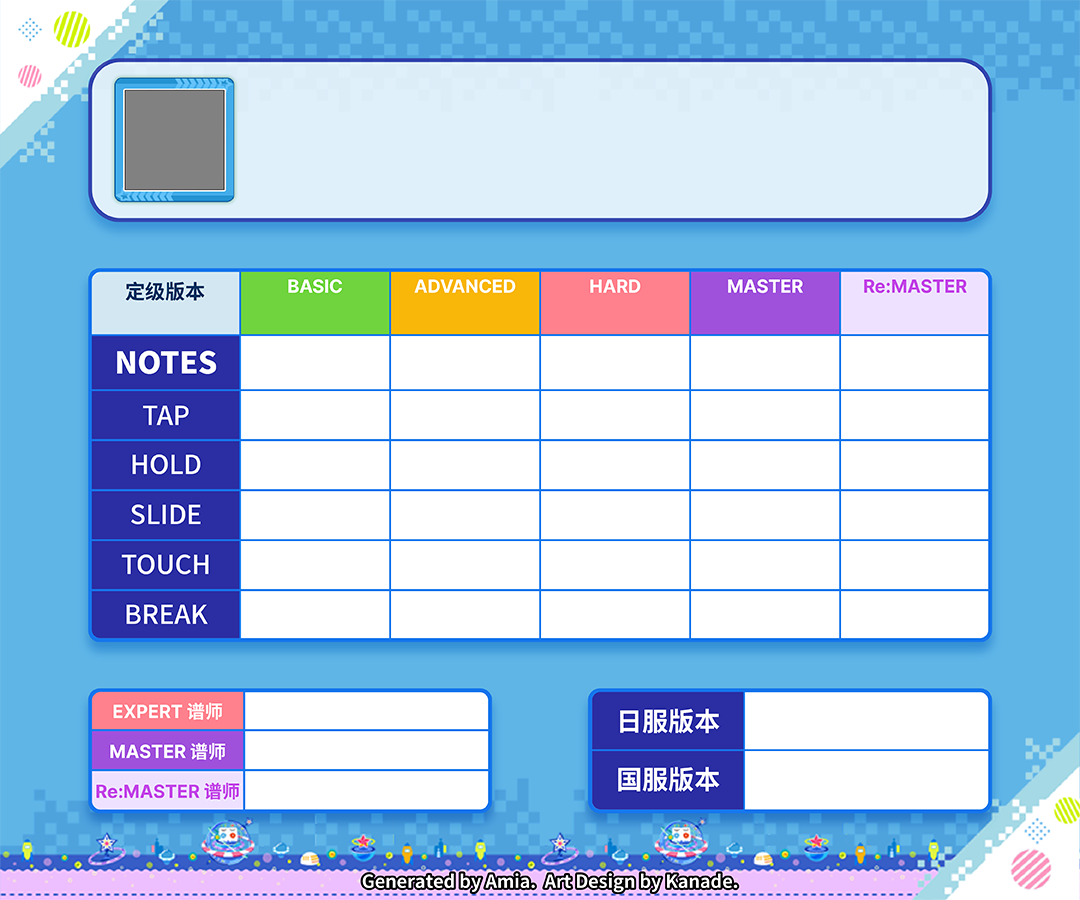
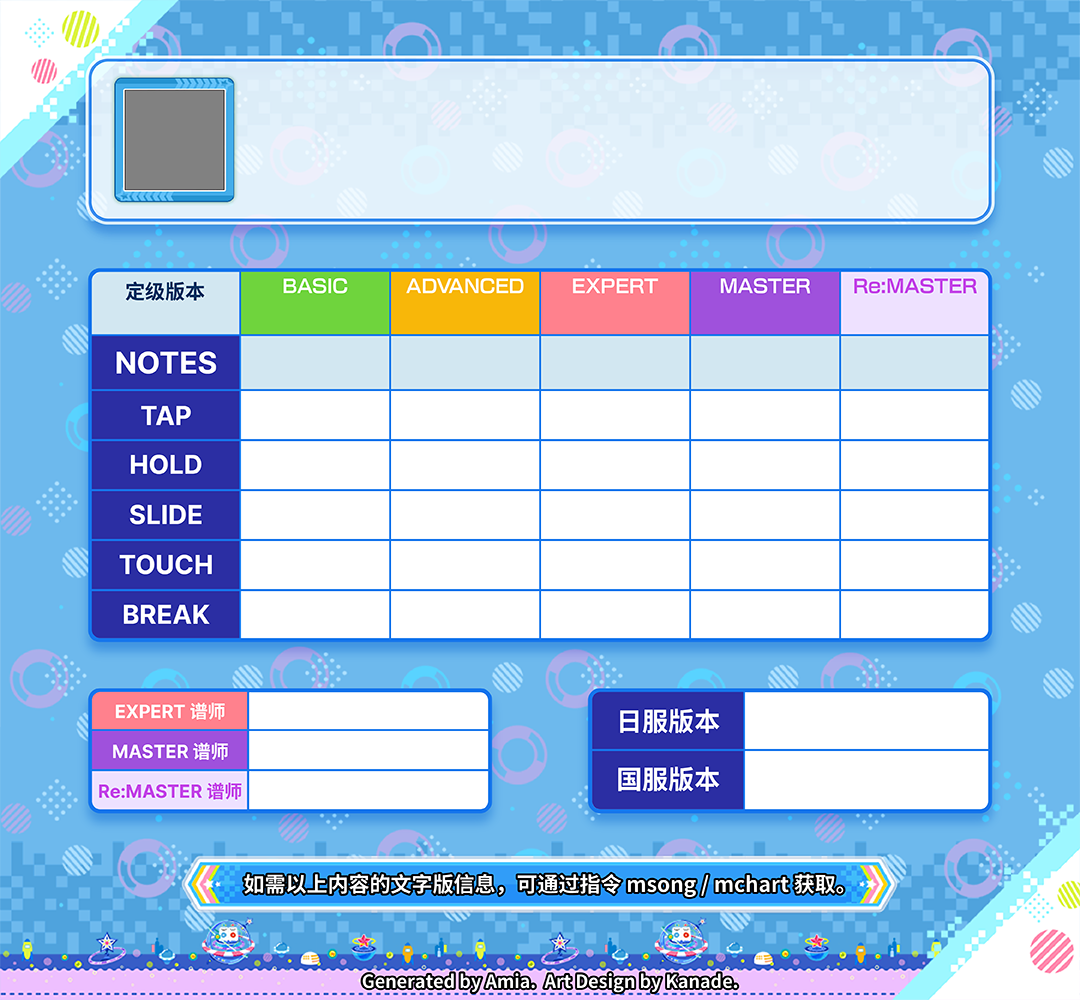
1.5.6

diff --git a/maimai_func/song_func.py b/maimai_func/song_func.py
@@ -162,6 +162,7 @@ def select_song_chart(user_in: str):
     bold24 = ImageFont.truetype("./material/typeface/SourceHanSans_37.ttf", 24, encoding="utf-8")
     bold26 = ImageFont.truetype("./material/typeface/SourceHanSans_37.ttf", 26, encoding="utf-8")
     bold36 = ImageFont.truetype("./material/typeface/SourceHanSans_37.ttf", 36, encoding="utf-8")
+    medium24 = ImageFont.truetype("./material/typeface/SourceHanSans_17.ttf", 24, encoding="utf-8")
     medium26 = ImageFont.truetype("./material/typeface/SourceHanSans_17.ttf", 26, encoding="utf-8")
     heavy30 = ImageFont.truetype("./material/typeface/SourceHanSans_22.ttf", 30, encoding="utf-8")
     cover_img = Image.open(BytesIO(fetch_song_cover(id))).resize((103, 103))
@@ -174,7 +175,9 @@ def select_song_chart(user_in: str):
     limit = lambda text: text if bold36.getsize(text)[0] <= 684 else limit(text[:-1])
     title = limit(title)
     base_draw.text((264, 75), title, "#083060", font=bold36)
-    base_draw.text((264, 125), artist, "#083060", font=bold24)
+    limit = lambda text: text if medium24.getsize(text)[0] <= 700 else limit(text[:-1])
+    artist = limit(artist)
+    base_draw.text((264, 125), artist, "#083060", font=medium24)
     base_draw.text((370, 164), f"ID {id}          {genre}          BPM {bpm}", "#083060", font=medium26)
     base_draw.text((864 - int(bold26.getsize(version)[0] / 2), 700), version, "#083060", font=bold26)
     base_draw.text((864 - int(bold26.getsize(china_version)[0] / 2), 758), china_version, "#083060", font=bold26)
